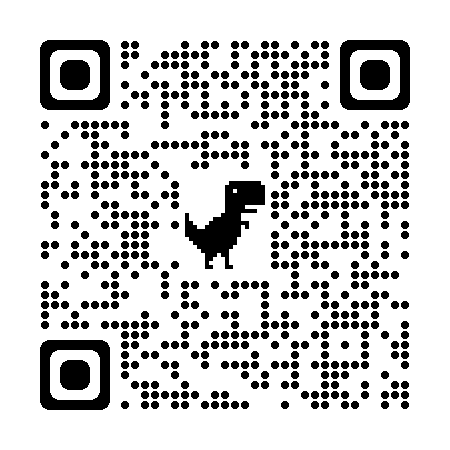
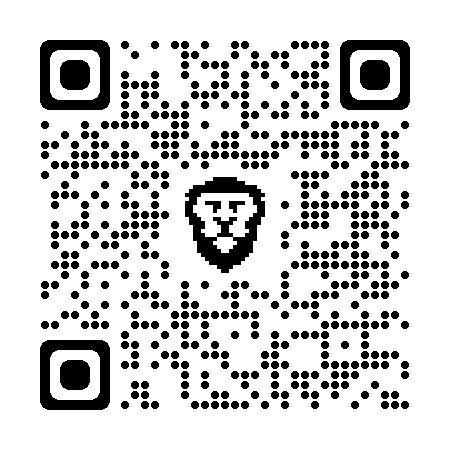
Atualização do site - Wireframe

diff --git a/index.html b/index.html
@@ -1,5 +1,5 @@
     <!DOCTYPE html>
-<html lang="en">
+<html lang="pt-br">
 
 <head>
     <meta charset="UTF-8">
@@ -119,18 +119,18 @@
     <!-- Wireframe -->
     <section id="Wireframe">
 
-        <div class="container">
+        <div class="container flex2">
 
             <div id="textowire">
 
                 <h2>Wireframe</h2>
-                <p>Wireframe é uma representação visual da estrutura básica de uma página. Ele deve ser feito da maneira mais simples possível, mostrando apenas o essencial, como uma espécie de rascunho, sem cores ou imagens. Clique no botão<span>ou escaneie o QR Code</span>para obter o wireframe desta página.</p>
-                <a href="wireframe.pdf" target="_blank">PDF</a>
+                <p>Wireframe é uma representação visual da estrutura básica de uma página. Ele deve ser feito da maneira mais simples possível, mostrando apenas o essencial, como uma espécie de rascunho, sem cores ou imagens. Clique no botão <span>ou escaneie o QR Code</span> para obter o wireframe desta página.</p>
+                <a href="wireframe.pdf" target="_blank" class="botao">PDF</a>
 
             </div>
             <div id="qrcode">
 
-
+                <img src="IMG/qrcode.png" alt="qrcode">
 
             </div>
 

diff --git a/style.css b/style.css
@@ -233,6 +233,47 @@ padding: 0px 10px;
 
 }
 
+/* Wireframe */
+#Wireframe {
+
+    padding: 50px 0px;
+    background: url(IMG/background.png);
+    background-size: cover;
+    background-position: center;
+
+}
+
+#textowire {
+
+    color: #fff;
+    padding: 0px 10px;
+
+}
+
+#textowire h2 {
+
+    margin-bottom: 10px;
+
+}
+
+#textowire p {
+
+    margin-bottom: 40px;
+
+}
+
+#textowire span {
+
+    display: none;
+
+}
+
+#qrcode {
+
+    display: none;
+
+}
+
 /* Smartphone landscape >>>>>>>>>>>>>>>>>>>>>>>>>>>> */
 @media (min-width: 576px) {
 
@@ -388,6 +429,33 @@ padding: 0px 10px;
 
         flex-direction: row;
         align-items: center;
+
+    }
+
+    /* Wireframe */
+    
+    #Wireframe {
+
+        background-attachment: fixed;
+
+    }
+
+    #textowire span {
+
+        display: inline;
+
+    }
+
+    #qrcode {
+
+        display: inline;
+
+    }
+
+    #qrcode img {
+
+        width: 225px;
+        height: 225px;
 
     }
 
